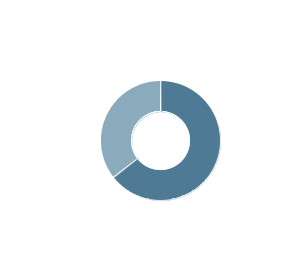
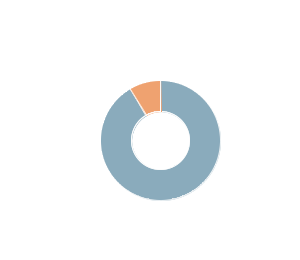
updated priming als sodenkamp,  descInj feature weniger text und bessere Bilder

Changed region(s): [[0.36, 0.3077, 0.75, 0.7692]]

diff --git a/src/Mailing/ui/HtmlPriming.php b/src/Mailing/ui/HtmlPriming.php
@@ -11,41 +11,36 @@ class HtmlPriming
 {
     public function GetHtmlPriming()
     {
-        $db = DBAccessSingleton::getInstance();
-
         // feature say something big
-        if($db->extractionsCountUser >= 200)
+        $db = DBAccessSingleton::getInstance();
+        $extractionUserCount = $db->extractionsCountUser;
+
+        if($extractionUserCount >= 200)
         {
-            $energyConsumption = round(array_sum($db->energyUser) / 1000,1);
-            $textConsumption = 'With your last <b>200</b> showers you have consumed <b>' . $energyConsumption .'</b> kWh energy. ';
+            $energyConsumption = round(array_sum(array_slice($db->energyUser,200*(-1),200))) / 1000;
+            $diff = "is";
         }
         else
         {
-            $energyConsumption = (array_sum($db->energyUser) / count($db->energyUser)) * 200 / 1000;
-            $textConsumption = "In total, you have uploaded ". $db->extractionsCountUser ." showers. When you'll have showered <b>200</b> times you'll have consumed <b>" . round($energyConsumption,1) ."</b> kWh energy. ";
+            $energyConsumption = round(array_sum(array_slice($db->energyUser,$extractionUserCount *(-1),$extractionUserCount))
+            / count(array_slice($db->energyUser,$extractionUserCount*(-1),$extractionUserCount))) * (200 / 1000);
+            $diff = "will be";
         }
 
-        $textConsEqual = 'This energy usage corresponds to the annual energy consumption of ';
-        if($energyConsumption > 0 && $energyConsumption < 165)
-        {
-            $textConsEqual = $textConsEqual . '<b>2 laptops</b>.';
-        }
-        elseif($energyConsumption >= 165 && $energyConsumption < 240)
-        {
-            $textConsEqual = $textConsEqual . '<b>1 washing machine</b>.';
-        }
-        elseif($energyConsumption >= 240 && $energyConsumption < 330)
-        {
-            $textConsEqual = $textConsEqual . '<b>1 fridge</b>.';
-        }
-        elseif($energyConsumption >= 330 && $energyConsumption < 460)
-        {
-            $textConsEqual = $textConsEqual . '<b>3 laptops</b>.';
-        }
-        elseif($energyConsumption >= 460)
-        {
-            $textConsEqual = $textConsEqual . '<b>'. round($energyConsumption/350,1) . ' times your energy usage for lighting</b>.';
-        }
+        $consHomeOffice = round($energyConsumption / 150,1);
+        $consWashingMaschine = round($energyConsumption / 250,1);;
+        $consLightning = round($energyConsumption / 500,1);
+
+        $textConsumption = '<b>'.$energyConsumption. ' kWh!</b> This '. $diff .' your energy consumption after <b>200</b> showers!
+        <br/>This energy consumption corresponds to the <b>annual</b> energy consumption of';
+        $textConsumptionComp = '
+            <lu>
+            <li><b>'.$consHomeOffice.'</b> laptops</li>
+            <li><b>'.$consWashingMaschine.'</b> wasching machines</li>
+            <li><b>'.$consLightning.'</b> times lightning a household</li>
+            </lu>
+        ';
+
 
         // if the user has not given a name take the mail address
         if(strlen($db->firstname) == 0)
@@ -57,10 +52,10 @@ class HtmlPriming
             $name = $db->firstname;
         }
 
-        return $this->GetHtml($name,$textConsumption,$textConsEqual);
+        return $this->GetHtml($name,$textConsumption, $textConsumptionComp);
     }
 
-    private function GetHtml($name,$textConsumption,$textConsEqual)
+    private function GetHtml($name,$textConsumption, $textConsumptionComp)
     {
         return
 '<br/>
@@ -74,12 +69,12 @@ class HtmlPriming
                     <tr>
                     <td> <a class="hero_image"><a href="http://amphiro.com/"><img src="'. UtilSingleton::getInstance()->InlinePicture("assets/badges/logo.png") .'" width="200" alt="" style="display: block; border: 0;" /> </a>
                     </td>
-                    <td>
+                 <!--   <td>
                         <img src="'. UtilSingleton::getInstance()->InlinePicture("assets/badges/_baer.png") .'" height="40" width="auto" alt="" style="display: block; border: 0;" />
                     </td>
                     <td align="left" style="font-family: arial,sans-serif; font-size: 13px; line-height: 17px !important; color: #7f7f7f; padding-top: 5px;">
                        Together we can <br/><b>save</b> his world!
-                    </td>
+                    </td> -->
                     </tr>
                     </table>
                 </td>
@@ -87,7 +82,7 @@ class HtmlPriming
 
                 <tr>
                 <td  class="headline" width="800" align="center" style="font-family: arial,sans-serif; font-size: 22px; color: #333; padding-top: 15px; padding-bottom: 20px; ">
-                Your personal Amphiro report
+                Your personal amphiro report
                 <br>
                 </td>
                 </tr>
@@ -96,9 +91,9 @@ class HtmlPriming
                 <td   width="800" align="left" style="font-family: arial,sans-serif; font-size: 14px; line-height: 20px !important; color: #7f7f7f; padding-top: 10px; padding-left: 30px; padding-right: 30px;">
                 Hello <b>' . $name . '</b>, <br/>
                 <br>
-                We are pleased to provide you your <b>personal</b> report. We want to help you to reduce your energy.
-                With this report we provide you:
-
+                We are pleased to provide you your <b>personal</b> amphiro report.
+                <br/>
+                We provide you information about...
 
                 </td>
                 </tr>
@@ -107,20 +102,35 @@ class HtmlPriming
                 <td  width="800" align="left" style="font-family: arial,sans-serif; font-size: 14px; line-height: 20px !important; color: #7f7f7f; padding-top: 10px; padding-left: 50px; padding-right: 50px;">
 
                 <lu>
-                   <li><strong>your energy consumption compared to other customers</strong></li>
+                   <li><strong>your energy consumption compared to our other customers</strong></li>
+                   <li><strong>your energy saving performance</strong></li>
                    <li><strong>personal energy saving tips</strong></li>
-                   <li><strong>your energy saving progress</strong></li>
                 </lu>
+                </td>
+                </tr>
+
+                <tr>
+                <td  width="800" align="left" style="font-family: arial,sans-serif; font-size: 14px; line-height: 20px !important; color: #7f7f7f; padding-top: 10px; padding-left: 30px; padding-right: 30px;">
+                ...so you can even save more energy!
                 </td>
                 </tr>
             </table>
         </td>
     </tr>
+</table>
 
+<br/>
+
+<table class=section cellpadding="0" cellspacing="0">
     <tr>
-        <td width="800" align="left" style="font-family: arial,sans-serif; font-size: 17px; line-height: 20px !important; color: #7f7f7f; padding-top: 20px; padding-left: 30px; padding-right: 30px;" >
-            '. $textConsumption . $textConsEqual .'
+        <td width="800" align="left" style="font-family: arial,sans-serif; font-size: 15px; line-height: 20px !important; color: #7f7f7f; padding-top: 20px; padding-left: 30px; padding-right: 30px;" >
+            '. $textConsumption .'
         </td>
+    </tr>
+    <tr>
+     <td width="800" align="left" style="font-family: arial,sans-serif; font-size: 14px; line-height: 20px !important; color: #7f7f7f; padding-top: 20px; padding-left: 50px; padding-right: 50px;">
+        '. $textConsumptionComp .'
+    </td>
     </tr>
 </table>
 

diff --git a/src/Mailing/ui/HtmlDescInj.php b/src/Mailing/ui/HtmlDescInj.php
@@ -19,35 +19,20 @@ class HtmlDescInj
         // descriptive text for lowest / average / highest consumption
         if($avgUser <= $avgTop20)
         {
-            $inj = '<td align="center" class="hero_image"><img src="'.UtilSingleton::getInstance()->InlinePicture("assets/injunctive/inj1.png").'" width="50%" alt="" style="display: block; border: 0;" /></td>';
-            $injtext = "Nice work! You are great, but do not stop being an environment saver!";
-            if($avgUser <= $avgTop20)
-            {
-                $descText = "You are one of the Top 20% user. That's great!";
-            }
-            else
-            {
-                $descText = "Your average energy consumption for your last shower was near the Top 20% user. That's great!";
-            }
+            $inj = '<td align="left" class="hero_image"><img src="'.UtilSingleton::getInstance()->InlinePicture("assets/injunctive/inj1.png").'" width="50%" alt="" style="display: block; border: 0;" /></td>';
+            $descText = "You are one of the Top 20% user. That's great!<br/>Do not stop being an energy saver";
         }
         elseif($avgUser <= $avgAll)
         {
-            $inj = '<td align="center" class="hero_image"><img src="'.UtilSingleton::getInstance()->InlinePicture("assets/injunctive/inj2.png").'" width="50%" alt="" style="display: block; border: 0;" /></td>';
-            $injtext = "Nice work! You are good, but do not stop being an water saver!";
-            $descText = "Your average energy consumption for your last shower was above the average. That's good!";
+            $inj = '<td align="left" class="hero_image"><img src="'.UtilSingleton::getInstance()->InlinePicture("assets/injunctive/inj2.png").'" width="45%" alt="" style="display: block; border: 0;" /></td>';
+            $descText = "Your average energy consumption for your last showers was above the average.<br/>Well done!";
         }
         else
         {
-            $inj = '<td align="center" class="hero_image"><img src="'.UtilSingleton::getInstance()->InlinePicture("assets/injunctive/inj3.png").'" width="50%" alt="" style="display: block; border: 0;" /></td>';
-            $injtext = "You are good, but we know you can do better!";
-            $descText = "Your average energy consumption for your last shower was below the average.";
+            $inj = '<td align="left" class="hero_image"><img src="'.UtilSingleton::getInstance()->InlinePicture("assets/injunctive/inj3.png").'" width="52%" alt="" style="display: block; border: 0;" /></td>';
+            $descText = "Your average energy consumption for your last showers was below the average.<br/>You are good, but we know you can do better!";
         }
 
-        return $this->GetHtml($descText,$inj,$injtext);
-    }
-
-    private function GetHtml($descText,$inj,$injtext)
-    {
         return '
 <table class=section cellpadding="0" cellspacing="0">
     <tr>
@@ -55,7 +40,7 @@ class HtmlDescInj
         <table cellpadding="0" cellspacing="0">
         <tr>
                <td class="headline" colspan="2" class="headline" align="center" style="font-family: arial,sans-serif; font-size: 22px; color: #333; padding-top: 15px;">
-               How are you doing compared to all Amphiro users?
+               How are you doing compared to all amphiro users?
                </td>
         </tr>
 
@@ -63,7 +48,7 @@ class HtmlDescInj
         <td>
         <table id="descInj" cellpadding="0" cellspacing="0">
            <tr>
-           <td width="500" valign="top">
+           <td width="600" valign="top">
                <table>
                <tr>
                <td>
@@ -76,7 +61,7 @@ class HtmlDescInj
 
                <tr>
                    <td class="body_copy" align="left" style="font-family: arial,sans-serif; font-size: 14px; line-height: 20px !important; color: #7f7f7f; padding-top: 10px;">
-                   We compared you with all Amphio users. '. $descText .'
+                   '. $descText .'
                    </td>
                </tr>
                </table>
@@ -85,7 +70,7 @@ class HtmlDescInj
            <td class="spacer" width="20" style="font-size: 1px;">&nbsp;
            </td>
 
-           <td width="253" valign="top" align="center">
+           <td width="200" valign="top" align="center">
 
                <table cellpadding="0" cellspacing="0">
                <tr>
@@ -95,16 +80,6 @@ class HtmlDescInj
                </tr>
                <tr>
                '. $inj .'
-               </tr>
-               <tr>
-               <td>
-                 &nbsp;
-               </td>
-               </tr>
-               <tr>
-                   <td class="body_copy" align="left" style="font-family: arial,sans-serif; font-size: 14px; line-height: 20px !important; color: #7f7f7f; padding-top: 10px;">
-                   '. $injtext .'
-                   </td>
                </tr>
                </table>
            </td>

diff --git a/src/Mailing/ui/HtmlClassification.php b/src/Mailing/ui/HtmlClassification.php
@@ -117,15 +117,13 @@ class HtmlClassification
 
         // feature goal setting
         // only for efficiency classes != "A+"
-        $goal = "";
-
         if($class != "A+")
         {
             $savingVolume = $calc->CalcSavingVolumeForBetterEnergyClass($energy);
             $savingTime = $calc->CalcSavingTimeForBetterEnergyClass($energy);
             $savingText1 = 'if you lower your average water consumption by <b style="color:rgb(239,162,112)">'. round($savingVolume)  .' liter</b>';
             $savingText2 = 'if you shorten your showertime by <b style="color:rgb(239,162,112)">'. round($savingTime) .' seconds</b>';
-            $savingText3 = 'if you lower your average water consumption by <b style="color:rgb(239,162,112)">'. round($savingVolume / 2) .' liter</b>
+            $savingText3 = 'if you lower your average water consumption by <b style="color:rgb(239,162,112)">'. round($savingVolume)/2 .' liter</b>
                             <br/><b>&nbsp;   &nbsp;  and</b> shorten your showertime by <b  style="color:rgb(239,162,112)">'. round($savingTime / 2) .' seconds</b>';
 
             $goal = '
@@ -153,7 +151,6 @@ class HtmlClassification
         </tr>
 
             ';
-
         }
         else
         {
@@ -175,7 +172,7 @@ class HtmlClassification
             '
 <table class=section cellpadding="0" cellspacing="0">
     <tr>
-        <td class="headline" colspan="2" class="headline" align="center" style="font-family: arial,sans-serif; font-size: 22px; color: #333; padding-top: 10px;">
+        <td class="headline" colspan="2" align="center" style="font-family: arial,sans-serif; font-size: 22px; color: #333; padding-top: 10px;">
         Your position on the efficiency scale
         </td>
     </tr>
@@ -183,10 +180,10 @@ class HtmlClassification
     <tr>
         <td colspan="2" class="body_copy" align="left" style="font-family: arial,sans-serif; font-size: 14px; line-height: 20px !important; color: #7f7f7f; padding-top: 10px;
         padding-left: 30px; padding-right: 30px;">
-        ... for the average energy consumption of the last <b>'. $extractionUserCount .'</b> showers: <br />
+        for the average energy consumption of the last <b>'. $extractionUserCount .'</b> showers<br/>
 
-        In average, you consumed <b>'. $energy .' </b>  Wh per shower.
-        With this energy usage your energy efficiency class is <b>'. $class .'</b>. <br/> &nbsp;
+        In average, you consumed <b>'. $energy .' Wh</b> per shower.
+        With this energy consumption your energy efficiency class is <b>'. $class .'</b>. <br/> &nbsp;
         </td>
     </tr>
 

diff --git a/src/Mailing/business/CreateCharts.php b/src/Mailing/business/CreateCharts.php
@@ -57,9 +57,9 @@ class CreateCharts
 
         $this->CreateGoalChartPicture(1-($savingConsVolume / $actualConsVolume), $savingConsVolume / $actualConsVolume,0, "volumeSavingChart.png");
 
-        $this->CreateGoalChartPicture(1-(($savingConsTime / ($actualConsTime * 60)) / 2 + ($savingConsVolume / $actualConsVolume)/2),
+      /*  $this->CreateGoalChartPicture(1-(($savingConsTime / ($actualConsTime * 60)) / 2 + ($savingConsVolume / $actualConsVolume)/2),
             ($savingConsTime / ($actualConsTime * 60)) / 2, ($savingConsVolume / $actualConsVolume) / 2, "combinedSavingChart.png");
-
+*/
 
     }
 
@@ -76,13 +76,13 @@ class CreateCharts
         /* Create and populate the pData object */
         $MyData = new pData();
 
+        // TODO : TITLE with Your can reduce your consumption!
+
         // define the color
         $col_dark = array("R"=>79,"G"=>122,"B"=>149,"Alpha"=>100);
         $col_mid = array("R"=>138,"G"=>171,"B"=>188,"Alpha"=>100);
         $col_light = array("R"=>205,"G"=>219,"B"=>226,"Alpha"=>100);
         $col_orange = array("R"=>239,"G"=>162, "B"=>112);
-
-        $palette = array("0"=>$col_light, "1"=>$col_mid, "2"=>$col_dark);
 
         $font2 = "libs/charts/pChart2_1_4/fonts/verdana.ttf";
 
@@ -131,6 +131,7 @@ class CreateCharts
         $col_dark = array("R"=>79,"G"=>122,"B"=>149,"Alpha"=>100);
         $col_mid = array("R"=>138,"G"=>171,"B"=>188,"Alpha"=>100);
         $col_light = array("R"=>205,"G"=>219,"B"=>226,"Alpha"=>100);
+        $col_orange = array("R"=>239,"G"=>162, "B"=>112);
 
         $palette = array("0"=>$col_light, "1"=>$col_mid, "2"=>$col_dark);
 

diff --git a/src/Mailing/ui/HtmlTwitterBadge.php b/src/Mailing/ui/HtmlTwitterBadge.php
@@ -69,12 +69,12 @@ class HtmlTwitterBadge
         if($reportCount < 10)
         {
             $rewardText = 'You have uploaded your data <b>'. $reportCount . '</b> times!<br/>
-            If you upload your shower data <b>'. $upload .'</b> times you will get your first reward!<br/>';
+            Upload your shower data <b>'. $upload .'</b> times and you will get your first reward!<br/>';
         }
         elseif($reportCount < 300)
         {
             $rewardText = 'You have uploaded your data <b>'. $reportCount . '</b> times!<br/>
-            If you upload your shower data <b>'. $upload .'</b> times the living place of your icebear will increase!<br/>';
+            Upload your shower data <b>'. $upload .'</b> times and the living place increases!<br/>';
         }
         elseif($reportCount >= 300)
         {
@@ -87,7 +87,8 @@ class HtmlTwitterBadge
 <table class=section cellpadding="0" cellspacing="0">
 
    <tr>
-        <td width="30%" class="body_copy" align="center" style="font-family: arial,sans-serif; font-size: 18px; line-height: 20px !important; color: #7f7f7f; padding-top: 10px;">Share</td>
+        <td width="30%" class="body_copy" align="center" style="font-family: arial,sans-serif; font-size: 18px; line-height: 20px !important; color: #7f7f7f; padding-top: 10px;">
+        Share it!</td>
         <td width="70%" colspan="3" class="body_copy" align="center" style="font-family: arial,sans-serif; font-size: 18px; line-height: 20px !important; color: #7f7f7f; padding-top: 10px;">
         '.$rewardHeading.'</td>
         <td></td>

diff --git a/src/Mailing/MailingMain.php b/src/Mailing/MailingMain.php
@@ -46,7 +46,7 @@ $db = DBAccessSingleton::getInstance();
 // Init DB and get all relevant db entries
 $db->Init();  // init database
 
-$allUser = array(5); // array(3,6);
+$allUser = array(5); // 3 = B // 5 = F // array(3,6);
 //$allUser = $db->userIdsWithExtractions;
 
 foreach($allUser as $id)
